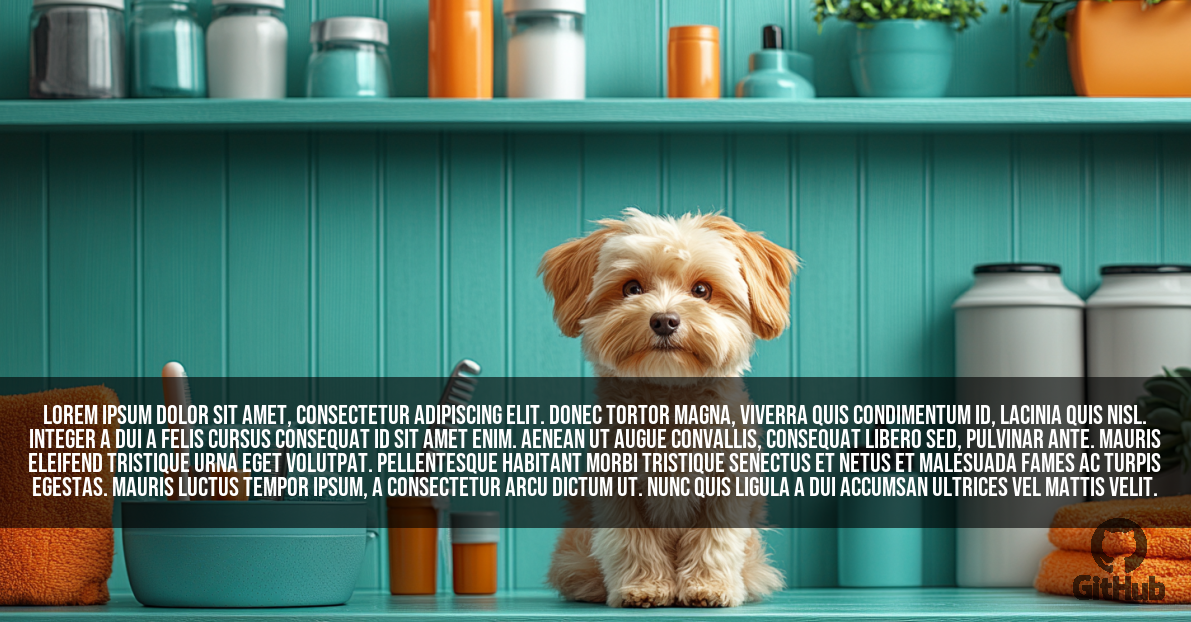
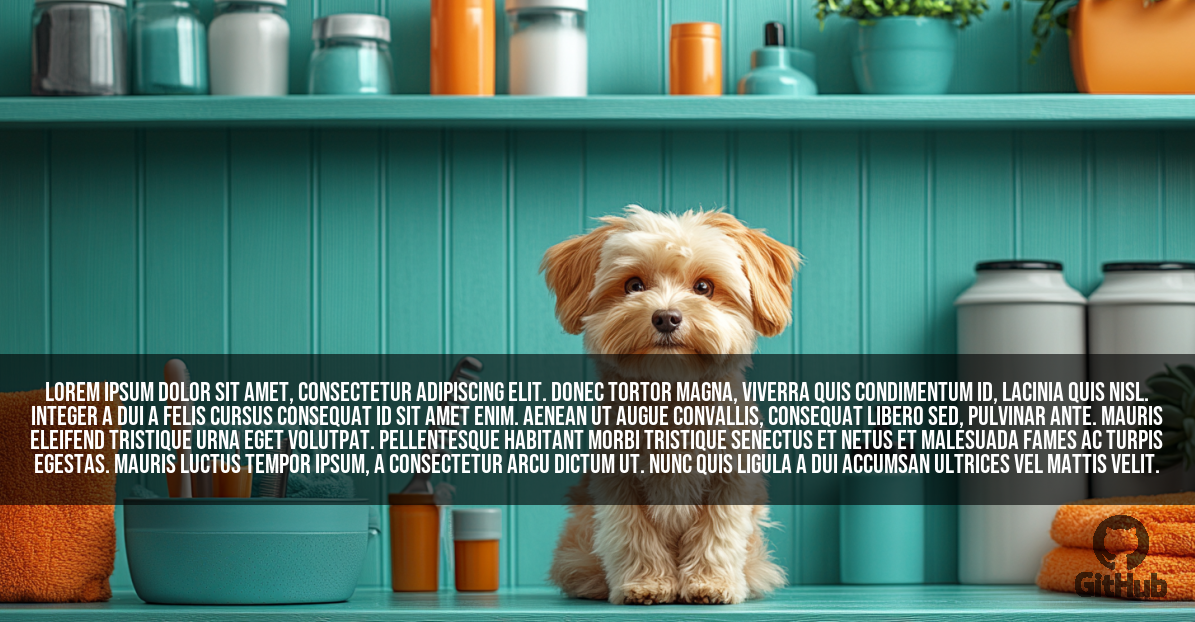
- updated README.md - changed watermark.png examples

diff --git a/README.md b/README.md
@@ -13,6 +13,12 @@
 - **Watermark**: Add a watermark to the image with a custom position and opacity.
 
 
+## Todo
+- [ ] more human-readable text position
+- [ ] more human-readable watermark position
+- [ ] custom text background opacity
+
+
 ## Example image
 ![Example Image](docs/images/example.png)
 
